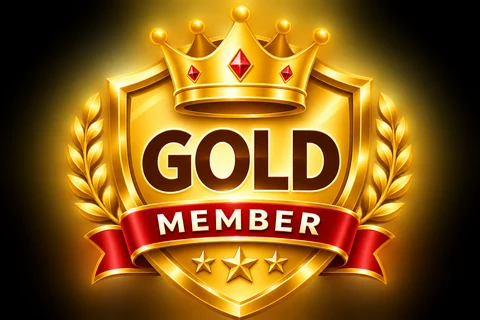
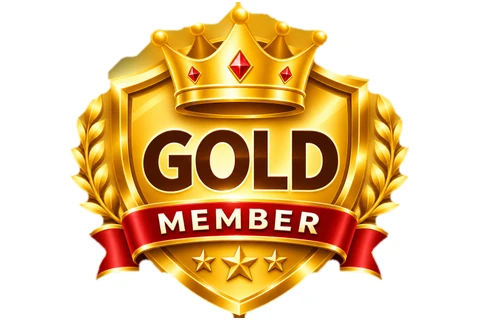
Gold badge on white (cut out), medals smaller and placed above the compare table
Claude-Session: https://claude.ai/code/session_018BqU7gfo7Z31NQ6dg8zHaR

diff --git a/mybusiness.html b/mybusiness.html
@@ -125,8 +125,8 @@ h1{font-size:22px;color:var(--navy);margin:4px 2px 4px}
 .pc-free .pch{background:linear-gradient(#1a73e8,#0b57c4)}.pc-silver .pch{background:linear-gradient(#aeb7c6,#7c8798)}.pc-gold .pch{background:linear-gradient(#f3c23c,#c98a05)}.pc-platinum .pch{background:linear-gradient(135deg,#6D28D9,#2E0757)}
 .pc .pcp{text-align:center;font-weight:800;font-size:26px;padding:10px 6px 0;min-height:36px}.pc .pcp small{font-size:11px;color:#5b6475;font-weight:600}
 .pc ul{list-style:none;margin:8px 0 6px;padding:0 14px}.pc li{font-size:15px;padding:5px 0 5px 22px;position:relative}.pc li:before{content:"✓";position:absolute;left:0;color:#1e9e57;font-weight:800}
-.hang{position:relative;margin-top:10px;padding-top:12px}.hang:before{content:"";position:absolute;top:0;left:4%;right:4%;height:5px;border-radius:5px;background:linear-gradient(90deg,#b8c4da,#8795aa,#b8c4da)}
-.hg{display:flex;justify-content:center;gap:8px}.hg figure{margin:0;flex:0 1 31%;max-width:150px;position:relative;padding-top:22px;transform-origin:50% 0;animation:pbSwing 4.2s ease-in-out infinite}
+.hang{position:relative;margin-top:14px;padding-top:12px;margin-bottom:10px}.hang:before{content:"";position:absolute;top:0;left:4%;right:4%;height:5px;border-radius:5px;background:linear-gradient(90deg,#b8c4da,#8795aa,#b8c4da)}
+.hg{display:flex;justify-content:center;gap:8px}.hg figure{margin:0;flex:0 1 26%;max-width:112px;position:relative;padding-top:22px;transform-origin:50% 0;animation:pbSwing 4.2s ease-in-out infinite}
 .hg figure:before{content:"";position:absolute;top:0;left:50%;width:2px;height:22px;background:#8795aa;transform:translateX(-50%)}
 .hg img{width:100%;display:block;border-radius:14px;box-shadow:0 6px 14px rgba(16,44,80,.25)}.hg figure.me img{outline:3px solid #f0b429;outline-offset:2px}
 @keyframes pbSwing{0%,100%{transform:rotate(2.2deg)}50%{transform:rotate(-2.2deg)}}@media(prefers-reduced-motion:reduce){.hg figure{animation:none}}
@@ -761,12 +761,12 @@ function plansCompare(b,i,en){
   const head='<tr><th class="cmh">'+(en?"Compare Plans":"प्लान तुलना")+'</th>'+T.map(t=>'<th class="th-'+t+'">'+ic[t]+'<br>'+nm(t)+(t===cur?'<br><em>'+(en?"Your Plan":"आपका प्लान")+'</em>':'')+'</th>').join("")+'</tr>';
   const body=T.map(g=>{const rows=ALLR.filter(r=>r[2]===g);return rows.length?(g==="free"?'<tr class="grp grp-'+g+'"><td colspan="5">'+GT[g]+'</td></tr>':'')+rows.map(r=>'<tr><td>'+r[0]+'</td>'+T.map(t=>'<td class="td-'+t+'">'+r[1](t)+'</td>').join("")+'</tr>').join(""):"";}).join("")+'<tr class="prow"><td>'+(en?"Price (1 year)":"क़ीमत (1 साल)")+'</td>'+T.map(t=>'<td class="pp pp-'+t+'">₹'+PLAN_PRICE[t].toLocaleString("en-IN")+'</td>').join("")+'</tr>';
   const hang='<div class="hang"><div class="hg">'+["silver","gold","platinum"].map((t,k)=>'<figure class="'+(t===cur?"me":"")+'" style="animation-delay:'+(k*0.6)+'s"><img src="pb-member-'+t+'.webp" alt="'+esc(PBPlan.name(t,en))+' Member" loading="lazy"></figure>').join("")+'</div></div>';
-  return hang+
+  return ''+
     '<div class="offer"><div class="oh">🎁 '+(en?"Silver Plan FREE for 1 Year":"Silver प्लान 1 साल मुफ़्त")+'</div>'+
     '<p>'+(en?"<strong>Share PataBook with 5 shopkeepers.</strong> When all 5 shops are complete, verified and Active, your Silver Plan reward will be unlocked and shown automatically on your mobile.":"<strong>5 दुकानदारों को PataBook शेयर करें।</strong> जब पाँचों दुकानें पूरी, जाँची हुई और Active हो जाएँगी, तब आपका Silver प्लान इनाम अपने-आप खुल जाएगा और आपके मोबाइल पर दिखेगा।")+'</p>'+
     '<div class="lights">'+[1,2,3,4,5].map(n=>'<span>'+n+'</span>').join("")+'</div>'+
     '<button type="button" class="shb" data-psh="1">📤 '+(en?"Share PataBook with shopkeepers":"दुकानदारों को PataBook भेजें")+'</button><small>'+(en?"Offer valid till 31 January 2027 · Free plan continues as it is · Referral tracking starts soon.":"ऑफ़र 31 जनवरी 2027 तक · Free प्लान वैसे ही चलता रहेगा · रेफ़रल गिनती जल्द शुरू होगी।")+'</small></div>'+
-    '<div class="pz"><button type="button" data-pz="-" aria-label="'+(en?"Zoom out":"छोटा करें")+'">−</button><span class="pzv" data-pz="r" title="Reset">'+Math.round(PZ*100)+'%</span><button type="button" data-pz="+" aria-label="'+(en?"Zoom in":"बड़ा करें")+'">+</button></div><div class="cmpw"><table class="cmp" style="zoom:'+PZ+'">'+head+body+'</table></div><div class="pswipe">'+(en?"Swipe left / right ↔":"बाएँ / दाएँ स्क्रॉल करें ↔")+'</div>';
+    hang+'<div class="pz"><button type="button" data-pz="-" aria-label="'+(en?"Zoom out":"छोटा करें")+'">−</button><span class="pzv" data-pz="r" title="Reset">'+Math.round(PZ*100)+'%</span><button type="button" data-pz="+" aria-label="'+(en?"Zoom in":"बड़ा करें")+'">+</button></div><div class="cmpw"><table class="cmp" style="zoom:'+PZ+'">'+head+body+'</table></div><div class="pswipe">'+(en?"Swipe left / right ↔":"बाएँ / दाएँ स्क्रॉल करें ↔")+'</div>';
 }
 function premBlock(b,i){
   if(!PREM)return "";const P=PREM[b.slug]||{},en=L()==="en";
